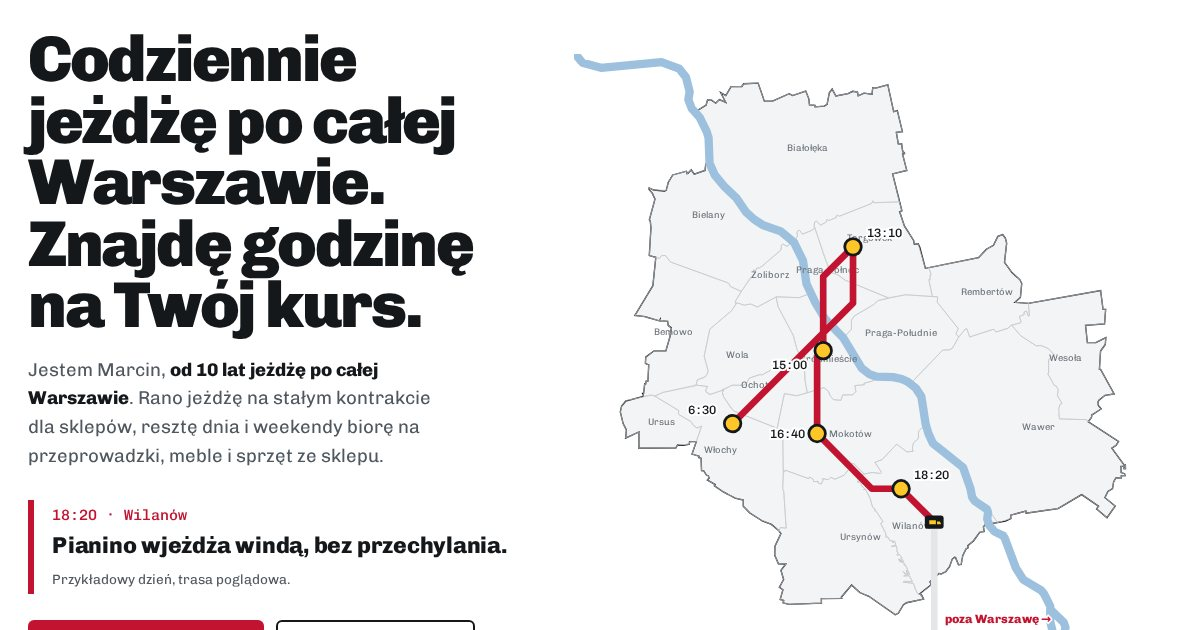
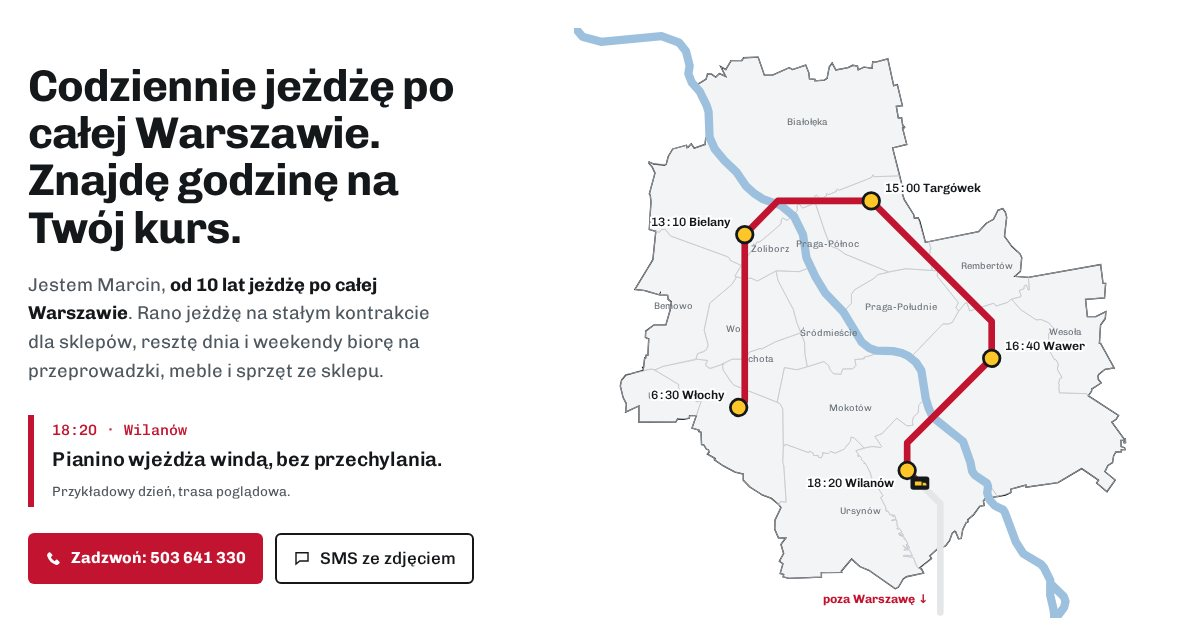
MJ Transport W3: lżejsza typografia (Chivo 600–700, mniejsze nagłówki), trasa bez nakładania: Włochy–Bielany–Targówek–Wawer–Wilanów
Claude-Session: https://claude.ai/code/session_01USdgDgttiw38zYBoXAXRj8

diff --git a/p/mj-transport-w3-trasa/index.html b/p/mj-transport-w3-trasa/index.html
@@ -13,7 +13,7 @@
 <script>document.documentElement.classList.add('js')</script>
 <link rel="preconnect" href="https://fonts.googleapis.com">
 <link rel="preconnect" href="https://fonts.gstatic.com" crossorigin>
-<link href="https://fonts.googleapis.com/css2?family=Chivo:ital,wght@0,400;0,500;0,800;0,900;1,400&family=Chivo+Mono:wght@400;500&display=swap" rel="stylesheet">
+<link href="https://fonts.googleapis.com/css2?family=Chivo:ital,wght@0,400;0,500;0,600;0,700;1,400&family=Chivo+Mono:wght@400;500&display=swap" rel="stylesheet">
 <style>
 :root{
   --red:#C21430; --red-d:#9E0F26; --yel:#FFC629; --gr:#1E2226; --gr2:#2A2F34; --line:#3A4046;
@@ -38,12 +38,12 @@ section[id]{scroll-margin-top:calc(var(--hdr-h) + 8px)}
 .hdr .wrap{display:flex;align-items:center;gap:26px;height:62px}
 .brand{display:flex;align-items:center;gap:10px;text-decoration:none;margin-right:auto;min-height:44px}
 .brand svg{width:40px;height:26px;flex:none}
-.brand b{font-weight:900;font-size:22px;letter-spacing:-.02em;line-height:1}
+.brand b{font-weight:700;font-size:21px;letter-spacing:-.01em;line-height:1}
 .brand small{display:block;font-size:12.5px;color:var(--mute);font-weight:400;letter-spacing:0;margin-top:2px}
 .nav{display:flex;gap:24px}
 .nav a{text-decoration:none;font-size:15.5px;color:var(--mute);padding:8px 0;font-weight:500}
 .nav a:hover{color:var(--red)}
-.call{display:inline-flex;align-items:center;gap:9px;background:var(--red);color:#fff;text-decoration:none;font-weight:800;padding:11px 17px;border-radius:6px;font-size:16px;white-space:nowrap}
+.call{display:inline-flex;align-items:center;gap:9px;background:var(--red);color:#fff;text-decoration:none;font-weight:700;padding:11px 17px;border-radius:6px;font-size:16px;white-space:nowrap}
 .call svg{width:17px;height:17px}
 .call:hover{background:var(--red-d)}
 .mnav{display:none;position:relative}
@@ -51,7 +51,7 @@ section[id]{scroll-margin-top:calc(var(--hdr-h) + 8px)}
 .mnav summary::-webkit-details-marker{display:none}
 .mnav nav{position:absolute;right:0;top:52px;background:#fff;border:2px solid var(--ink);min-width:230px;padding:8px 0;border-radius:6px}
 .mnav nav a{display:block;padding:12px 20px;text-decoration:none;font-size:16px}
-.mnav nav a.mcall{color:var(--red);font-weight:800}
+.mnav nav a.mcall{color:var(--red);font-weight:700}
 
 /* hero */
 .hero{background:var(--white);padding-top:var(--hdr-h)}
@@ -59,12 +59,12 @@ section[id]{scroll-margin-top:calc(var(--hdr-h) + 8px)}
 .pin{min-height:calc(100vh - var(--hdr-h));display:flex;align-items:center;padding:28px 0}
 .js .pin{position:sticky;top:var(--hdr-h);height:calc(100vh - var(--hdr-h))}
 .hero .wrap{display:grid;grid-template-columns:5fr 6fr;gap:48px;align-items:center;height:100%}
-.h1{font-weight:900;font-size:clamp(44px,5.4vw,82px);line-height:.95;letter-spacing:-.035em}
+.h1{font-weight:700;font-size:clamp(34px,3.7vw,56px);line-height:1.06;letter-spacing:-.022em;max-width:17ch}
 .lead{margin-top:20px;font-size:18.5px;color:var(--mute);max-width:38ch}
 .lead b{color:var(--ink)}
 .stop{margin-top:30px;border-left:6px solid var(--red);padding:4px 0 4px 18px;min-height:92px}
 .stop .t{font-family:var(--mono);font-size:15px;color:var(--red);font-weight:500}
-.stop .w{font-weight:800;font-size:23px;line-height:1.2;margin-top:4px;letter-spacing:-.01em}
+.stop .w{font-weight:600;font-size:20px;line-height:1.2;margin-top:4px;letter-spacing:-.01em}
 .stop small{display:block;color:var(--mute);font-size:13.5px;margin-top:10px}
 .ctas{display:flex;flex-wrap:wrap;gap:12px;margin-top:26px}
 .btn-k{display:inline-flex;align-items:center;gap:9px;border:2px solid var(--ink);text-decoration:none;padding:10px 16px;border-radius:6px;font-weight:500}
@@ -80,9 +80,10 @@ section[id]{scroll-margin-top:calc(var(--hdr-h) + 8px)}
 .map .route{fill:none;stroke:var(--red);stroke-width:12;stroke-linejoin:round;stroke-linecap:round}
 .map .st circle{fill:#fff;stroke:var(--ink);stroke-width:5}
 .map .st.on circle{fill:var(--yel)}
+.map .st .dz{font-family:var(--f);font-weight:600}
 .map .st text{font-family:var(--mono);font-size:22px;font-weight:500;fill:var(--ink);paint-order:stroke;stroke:#fff;stroke-width:7px}
 .map #van rect{fill:var(--ink)}
-.map .out{font-family:var(--f);font-weight:800;font-size:22px;fill:var(--red);paint-order:stroke;stroke:#fff;stroke-width:6px}
+.map .out{font-family:var(--f);font-weight:700;font-size:22px;fill:var(--red);paint-order:stroke;stroke:#fff;stroke-width:6px}
 
 /* sekcje */
 .sec{padding:110px 0}
@@ -90,7 +91,7 @@ section[id]{scroll-margin-top:calc(var(--hdr-h) + 8px)}
 .off{background:var(--off)}
 .redb{background:var(--red);color:#fff}
 #poza.sec{padding:80px 0}
-.h2{font-weight:900;font-size:clamp(36px,4.3vw,62px);line-height:.98;letter-spacing:-.03em;max-width:18ch}
+.h2{font-weight:700;font-size:clamp(30px,3.1vw,46px);line-height:1.08;letter-spacing:-.02em;max-width:20ch}
 .intro{font-size:18.5px;max-width:52ch;margin-top:18px}
 .dark .intro{color:var(--onmute)}
 
@@ -100,7 +101,7 @@ section[id]{scroll-margin-top:calc(var(--hdr-h) + 8px)}
 .tram::before{content:"";position:absolute;left:0;right:0;top:15px;height:8px;background:var(--red);border-radius:4px}
 .tram .s{position:relative;padding-top:52px}
 .tram .s::before{content:"";position:absolute;left:0;top:4px;width:30px;height:30px;border-radius:50%;background:#fff;border:6px solid var(--gr)}
-.tram h3{font-weight:800;font-size:25px;line-height:1.1;letter-spacing:-.015em}
+.tram h3{font-weight:700;font-size:21px;line-height:1.1;letter-spacing:-.015em}
 .tram p{color:var(--onmute);font-size:16px;margin-top:10px}
 .tram img{margin-top:18px;border-radius:6px;aspect-ratio:4/3;object-fit:cover;width:100%}
 .tram .s.end::before{background:var(--yel)}
@@ -113,19 +114,19 @@ section[id]{scroll-margin-top:calc(var(--hdr-h) + 8px)}
 .fleet .sm img{width:100%;height:100%;object-fit:cover;aspect-ratio:16/10}
 .flt{display:grid;grid-template-columns:repeat(3,1fr);gap:34px;margin-top:44px}
 .flt p{font-size:17px;color:var(--mute);border-top:4px solid var(--ink);padding-top:14px}
-.flt p b{display:block;font-weight:800;font-size:22px;color:var(--ink);letter-spacing:-.01em;margin-bottom:4px}
+.flt p b{display:block;font-weight:700;font-size:19px;color:var(--ink);letter-spacing:-.01em;margin-bottom:4px}
 
 /* poza */
 .away{display:grid;grid-template-columns:1fr auto;gap:56px;align-items:end}
 .away p{font-size:19px;color:#FFE3E7;margin-top:18px;max-width:46ch}
-.btn-w{display:inline-flex;align-items:center;gap:9px;background:#fff;color:var(--red-d);text-decoration:none;font-weight:800;padding:14px 20px;border-radius:6px;font-size:17px}
+.btn-w{display:inline-flex;align-items:center;gap:9px;background:#fff;color:var(--red-d);text-decoration:none;font-weight:700;padding:14px 20px;border-radius:6px;font-size:17px}
 .btn-w:hover{background:var(--yel);color:var(--ink)}
 .away svg.arr{width:100%;height:auto}
 
 /* o mnie */
 .me{display:grid;grid-template-columns:3fr 9fr;gap:56px;align-items:start}
 .me img{border-radius:50%;aspect-ratio:1;object-fit:cover;object-position:50% 18%;width:100%;max-width:260px}
-.me blockquote{font-weight:800;font-size:clamp(26px,2.8vw,40px);line-height:1.18;letter-spacing:-.02em;max-width:30ch}
+.me blockquote{font-weight:600;font-size:clamp(23px,2.3vw,32px);line-height:1.3;letter-spacing:-.02em;max-width:30ch}
 .me blockquote::before{content:"„"}.me blockquote::after{content:"”"}
 .me cite{display:block;font-style:normal;color:var(--mute);margin-top:16px;font-size:16px}
 .me .more{display:grid;grid-template-columns:1fr 1fr;gap:28px;margin-top:40px;max-width:820px}
@@ -134,12 +135,12 @@ section[id]{scroll-margin-top:calc(var(--hdr-h) + 8px)}
 
 /* kontakt */
 .contact{display:grid;grid-template-columns:6fr 6fr;gap:64px;align-items:start}
-.bigtel{display:inline-block;font-weight:900;font-size:clamp(40px,5.4vw,72px);letter-spacing:-.03em;line-height:1;text-decoration:none;margin-top:26px;color:#fff;font-variant-numeric:tabular-nums lining-nums}
+.bigtel{display:inline-block;font-weight:700;font-size:clamp(36px,4.2vw,56px);letter-spacing:-.02em;line-height:1;text-decoration:none;margin-top:26px;color:#fff;font-variant-numeric:tabular-nums lining-nums}
 .bigtel:hover{color:var(--yel)}
 .contact .alt{color:var(--onmute);margin-top:22px;font-size:17px}
 .contact .alt a{color:#fff}
 .btnrow{display:flex;flex-wrap:wrap;gap:12px;margin-top:26px}
-.btn-y{display:inline-flex;align-items:center;gap:9px;background:var(--yel);color:var(--ink);text-decoration:none;font-weight:800;padding:13px 18px;border-radius:6px}
+.btn-y{display:inline-flex;align-items:center;gap:9px;background:var(--yel);color:var(--ink);text-decoration:none;font-weight:700;padding:13px 18px;border-radius:6px}
 .btn-y svg{width:18px;height:18px}
 .btn-o{display:inline-flex;align-items:center;border:2px solid #6B737B;color:#fff;text-decoration:none;padding:11px 18px;border-radius:6px}
 form.f{display:grid;gap:14px;background:#fff;color:var(--ink);padding:30px;border-radius:8px}
@@ -148,13 +149,13 @@ form.f{display:grid;gap:14px;background:#fff;color:var(--ink);padding:30px;borde
 .f input:focus,.f textarea:focus{border-color:var(--ink)}
 .f textarea{min-height:110px;resize:vertical}
 .f .two{display:grid;grid-template-columns:1fr 1fr;gap:14px}
-.f button{font:inherit;font-weight:800;background:var(--red);color:#fff;border:0;padding:14px;border-radius:6px;cursor:pointer;font-size:16.5px}
+.f button{font:inherit;font-weight:700;background:var(--red);color:#fff;border:0;padding:14px;border-radius:6px;cursor:pointer;font-size:16.5px}
 .f button:hover{background:var(--red-d)}
 
 footer{background:var(--white);color:var(--mute);padding:40px 0 110px;font-size:15px;border-top:2px solid var(--ink)}
 footer a,.contact .alt a{display:inline-block;padding:10px 0}
 footer .wrap{display:flex;flex-wrap:wrap;gap:16px 40px;justify-content:space-between;align-items:center}
-footer b{color:var(--ink);font-weight:900}
+footer b{color:var(--ink);font-weight:700}
 .mbar{display:none}
 
 .js .reveal{opacity:0;transform:translateY(26px);transition:opacity .85s cubic-bezier(.22,.61,.36,1),transform .85s cubic-bezier(.22,.61,.36,1)}
@@ -166,7 +167,7 @@ footer b{color:var(--ink);font-weight:900}
   .nav{display:none}.mnav{display:block}
   .hero .wrap{grid-template-columns:1fr;grid-template-rows:auto minmax(0,1fr);gap:10px}
   .pin{align-items:stretch;padding:18px 0}
-  .h1{font-size:clamp(36px,7vw,56px)}
+  .h1{font-size:clamp(30px,5.6vw,44px)}
   .tram{grid-template-columns:1fr;gap:34px;margin-top:48px;padding-left:46px}
   .tram::before{left:11px;right:auto;top:0;bottom:0;width:8px;height:auto}
   .tram .s{padding-top:0}
@@ -183,11 +184,12 @@ footer b{color:var(--ink);font-weight:900}
   .hdr .wrap{height:58px;gap:10px}
   .brand small{display:none}
   .js .pin{min-height:0;height:calc(100svh - var(--hdr-h) - 68px);padding:14px 0}
-  .h1{font-size:34px}
+  .h1{font-size:28px}
   .hero .lead,.hero .ctas{display:none}
   .stop small{font-size:12px;margin-top:4px}
   .map .dn{display:none}
   .map .st text{font-size:36px;stroke-width:9px}
+  .map .st .dz{display:none}
   .stop{margin-top:14px;min-height:84px;padding-left:14px}
   .stop .w{font-size:19px}
   .map{max-height:none}
@@ -195,7 +197,7 @@ footer b{color:var(--ink);font-weight:900}
   .f .two{grid-template-columns:1fr}
   form.f{padding:20px}
   .mbar{display:grid;grid-template-columns:1fr 1fr;position:fixed;left:0;right:0;bottom:0;z-index:40;background:#fff;border-top:2px solid var(--ink);padding:10px 12px calc(10px + env(safe-area-inset-bottom));gap:10px}
-  .mbar a{display:flex;justify-content:center;align-items:center;gap:8px;min-height:46px;border-radius:6px;text-decoration:none;font-weight:800;font-size:16px}
+  .mbar a{display:flex;justify-content:center;align-items:center;gap:8px;min-height:46px;border-radius:6px;text-decoration:none;font-weight:700;font-size:16px}
   .mbar a:first-child{background:var(--red);color:#fff}
   .mbar a:last-child{border:2px solid var(--ink);color:var(--ink)}
   .mbar svg{width:18px;height:18px}
@@ -203,7 +205,7 @@ footer b{color:var(--ink);font-weight:900}
   .js .stagger>*{transform:translateY(16px);transition-duration:.7s;transition-delay:calc(var(--i,0)*55ms)}
 }
 @media(max-width:420px){.hdr .call{display:none}.mk{font-size:12.5px}}
-@media(max-width:380px){.h1{font-size:30px}}
+@media(max-width:380px){.h1{font-size:26px}}
 @media(prefers-reduced-motion:reduce){
   html{scroll-behavior:auto}
   .js .hero{height:auto}
@@ -242,7 +244,7 @@ footer b{color:var(--ink);font-weight:900}
         </div>
       </div>
       <div class="mapbox">
-        <svg class="map" id="map" viewBox="-10 -10 1020 1068" preserveAspectRatio="xMidYMid meet" role="img" aria-label="Mapa Warszawy z trasą busa przez Włochy, Targówek, Śródmieście, Mokotów i Wilanów">
+        <svg class="map" id="map" viewBox="-10 -10 1020 1068" preserveAspectRatio="xMidYMid meet" role="img" aria-label="Mapa Warszawy z trasą busa przez Włochy, Bielany, Targówek, Wawer i Wilanów">
           <path class="city" d="M42.7 637.9L48.0 659.4L53.8 670.4L52.3 685.3L76.4 674.2L76.5 703.7L143.1 703.5L146.5 697.8L156.6 698.4L167.8 696.4L168.1 691.7L180.3 691.7L172.5 714.1L185.2 718.1L184.6 720.4L188.9 721.6L189.8 744.3L193.7 744.7L198.6 752.2L202.2 753.7L203.5 757.5L200.3 761.4L214.5 769.4L213.0 771.7L230.0 783.2L250.6 793.8L265.3 797.5L265.3 808.7L277.3 820.8L299.8 835.3L316.3 841.5L330.0 853.2L333.5 858.2L322.7 881.0L322.3 897.6L329.0 912.7L342.2 913.2L333.5 924.6L338.4 941.3L330.6 955.4L337.1 959.7L332.2 977.3L338.5 979.0L337.4 983.4L347.8 986.3L406.8 984.1L406.7 975.8L443.5 975.3L442.8 973.3L461.4 951.2L476.1 964.8L492.6 971.7L540.5 1005.0L546.3 1002.0L555.0 987.3L560.9 983.3L591.8 976.8L588.1 969.5L584.3 967.6L606.1 950.5L603.2 945.4L619.5 930.2L623.4 931.3L631.8 927.2L638.7 918.0L643.5 904.8L647.8 901.1L649.6 901.7L654.9 914.5L659.8 913.9L662.6 898.1L668.5 885.8L672.4 883.5L671.6 880.0L682.3 871.1L693.3 855.9L701.5 854.5L700.0 846.0L703.4 842.1L739.8 835.6L749.7 831.0L749.5 824.8L776.9 817.5L777.3 821.2L835.0 812.8L877.9 787.6L908.4 808.5L904.9 813.5L923.7 829.4L938.6 808.3L920.0 793.1L925.4 781.7L933.8 776.5L935.7 764.6L939.8 757.5L949.7 757.2L949.6 753.8L956.5 753.3L955.5 749.7L949.4 747.7L949.0 736.3L953.8 736.2L954.7 740.9L957.3 740.5L957.0 733.9L954.9 734.1L932.5 703.4L940.3 698.4L944.7 691.2L889.9 656.0L895.9 647.1L895.9 643.7L913.2 632.5L908.1 626.3L907.3 620.1L909.2 616.6L920.2 607.8L936.7 605.5L912.2 561.0L910.0 561.0L912.1 527.7L920.7 515.8L921.6 503.5L903.5 512.4L888.2 512.3L884.9 481.0L919.3 478.4L921.3 452.1L916.5 451.7L912.2 418.2L781.4 441.4L757.1 439.5L767.0 430.7L769.4 405.5L766.2 398.8L751.7 385.6L738.2 367.3L742.1 332.5L739.9 323.6L735.0 317.0L726.2 320.1L718.2 336.3L705.4 343.4L691.1 358.8L595.0 377.9L584.7 339.5L581.8 333.5L575.0 334.3L573.7 327.5L557.0 301.3L548.3 275.2L552.5 273.8L535.7 207.1L561.3 200.7L553.7 171.5L557.4 170.4L556.9 168.4L555.1 168.8L553.6 164.2L551.9 152.2L545.9 152.4L542.4 131.8L553.4 130.4L544.2 92.6L537.6 94.3L527.0 45.8L505.0 51.9L499.7 51.0L498.3 62.7L483.8 60.8L473.4 65.7L472.1 58.8L463.3 57.5L455.1 61.7L433.0 66.0L426.2 53.5L421.1 60.2L417.0 81.0L411.9 84.2L395.3 85.7L395.1 82.9L385.2 82.3L384.0 71.2L378.4 57.1L354.5 65.2L348.5 61.9L318.4 75.4L303.5 75.4L292.2 42.7L266.3 43.8L262.6 48.8L243.2 49.1L233.7 65.4L224.6 60.2L233.5 77.6L222.1 72.6L215.5 79.1L208.0 73.6L200.6 73.2L198.1 82.3L175.2 96.8L196.1 124.1L201.4 134.2L204.3 150.6L202.8 180.6L197.3 190.1L196.1 200.8L176.6 207.6L171.1 199.6L165.0 206.2L163.5 206.6L162.5 202.2L137.6 209.0L129.5 222.6L125.8 236.8L122.8 238.2L103.2 236.2L95.0 232.5L94.5 235.1L100.8 242.4L105.5 252.7L95.3 290.1L97.0 292.7L98.2 304.7L95.2 354.8L107.0 357.9L101.7 409.4L69.1 463.3L87.5 465.5L113.2 472.9L115.1 469.8L115.4 473.3L128.4 474.1L129.4 481.2L135.0 485.8L133.1 500.0L125.2 527.4L103.9 527.3L88.7 538.7L88.2 550.0L94.2 553.0L92.7 582.0L89.4 582.0L88.7 587.1L86.9 587.0L84.9 604.4L83.0 604.3L84.6 609.8L52.5 618.5L45.1 627.4L42.7 637.9Z"/>
 <path class="dist" d="M69.1 463.3L87.5 465.5L113.2 472.9L115.1 469.8L115.4 473.3L128.4 474.1L129.4 481.2L135.0 485.8L133.1 500.0L125.2 527.4L103.9 527.3L88.6 539.2L88.2 550.0L94.2 553.0L92.7 582.0L89.4 582.0L88.7 587.1L86.9 587.0L84.9 604.4L83.1 606.2L84.6 609.8L97.6 607.2L105.2 609.1L119.9 602.6L179.1 590.8L182.4 579.6L198.3 573.0L201.6 563.4L194.5 536.7L204.8 488.0L244.3 454.6L252.4 442.3L250.5 438.5L261.3 419.7L241.7 410.7L239.7 405.9L234.6 403.2L133.7 366.6L124.4 354.8L117.2 355.0L114.1 359.8L107.0 358.3L101.7 409.4L69.1 463.3Z"/>
 <path class="dist" d="M175.2 96.8L196.1 124.1L201.4 134.2L204.3 150.6L203.0 190.5L206.0 203.2L215.7 220.5L229.5 232.9L251.6 247.4L260.6 257.6L271.8 278.6L283.4 289.6L300.8 299.7L335.0 311.5L356.8 329.0L363.5 319.7L362.5 313.3L363.7 310.2L367.4 309.2L372.6 316.1L387.3 310.4L393.5 306.1L394.5 294.3L397.9 292.7L405.3 299.9L416.4 293.6L415.7 290.4L417.5 289.5L419.1 291.7L425.0 289.6L434.0 285.8L433.5 283.1L436.4 281.8L438.8 283.8L497.7 260.6L500.1 255.7L501.9 259.2L548.0 257.7L535.7 207.1L561.3 200.7L553.7 171.5L557.4 170.4L556.9 168.4L555.1 168.8L553.6 164.2L551.9 152.2L545.9 152.4L542.4 131.8L553.4 130.4L544.2 92.6L537.6 94.3L527.0 45.8L505.0 51.9L499.7 51.0L498.3 62.7L483.8 60.8L473.4 65.7L472.1 58.8L463.3 57.5L455.1 61.7L433.0 66.0L426.2 53.5L421.1 60.2L417.0 81.0L411.9 84.2L395.3 85.7L395.1 82.9L385.2 82.3L384.0 71.2L378.4 57.1L354.5 65.2L348.5 61.9L318.4 75.4L303.5 75.4L292.2 42.7L266.3 43.8L262.6 48.8L243.2 49.1L233.7 65.4L224.6 60.2L233.5 77.6L222.1 72.6L215.5 79.1L208.0 73.6L200.6 73.2L198.1 82.3L175.2 96.8Z"/>
@@ -265,26 +267,21 @@ footer b{color:var(--ink);font-weight:900}
 <path class="river" d="M845.4 1197.0L840.5 1184.0L807.8 1144.5L802.8 1124.7L803.2 1116.7L806.8 1106.4L822.3 1078.2L827.1 1064.5L828.4 1054.4L827.1 1043.4L820.9 1016.5L821.1 989.8L809.8 967.4L804.6 960.9L772.4 941.7L758.8 920.5L739.0 867.2L735.8 862.2L720.4 854.6L710.8 843.4L706.9 831.6L708.5 819.9L706.3 814.1L684.6 799.4L679.5 792.0L676.5 776.3L663.1 738.3L608.5 694.7L600.3 676.4L595.5 660.2L587.7 610.2L577.6 594.8L563.1 583.2L552.0 578.2L536.6 574.9L506.5 574.2L493.3 569.4L479.9 559.0L446.4 503.9L413.8 469.8L396.5 441.5L379.7 405.8L373.4 364.1L357.2 331.1L333.3 311.0L301.2 299.9L285.2 289.6L270.4 276.2L253.3 251.3L232.0 230.9L213.7 209.1L204.3 187.8L202.5 141.5L198.9 130.0L186.2 104.4L172.1 88.5L165.9 72.9L168.3 58.3L161.5 31.8L149.2 16.6L117.2 4.8L7.8 15.1L-25.8 5.8L-49.6 -23.3L-53.9 -42.5L-64.5 -49.8M827.1 1064.5L846.1 1038.5L848.6 1028.0L845.4 1019.0L821.7 995.7"/>
 <text class="dn" x="139" y="499">Bemowo</text>
 <text class="dn" x="382" y="166">Białołęka</text>
-<text class="dn" x="202" y="286">Bielany</text>
 <text class="dn" x="459" y="684">Mokotów</text>
 <text class="dn" x="292" y="594">Ochota</text>
 <text class="dn" x="550" y="501">Praga-Południe</text>
 <text class="dn" x="418" y="386">Praga-Północ</text>
 <text class="dn" x="706" y="426">Rembertów</text>
-<text class="dn" x="494" y="328">Targówek</text>
 <text class="dn" x="117" y="662">Ursus</text>
 <text class="dn" x="477" y="869">Ursynów</text>
-<text class="dn" x="799" y="671">Wawer</text>
 <text class="dn" x="849" y="546">Wesoła</text>
-<text class="dn" x="570" y="849">Wilanów</text>
 <text class="dn" x="254" y="540">Wola</text>
-<text class="dn" x="225" y="712">Włochy</text>
 <text class="dn" x="420" y="548">Śródmieście</text>
 <text class="dn" x="313" y="395">Żoliborz</text>
-          <path class="route-bg" d="M246 659 L464 441 L464 339 L410 393 L410 527 L399 538 L399 677 L498 777 L551 777 L611 837 L611 1048"/>
-          <path class="route" id="route" d="M246 659 L464 441 L464 339 L410 393 L410 527 L399 538 L399 677 L498 777 L551 777 L611 837 L611 1048"/>
-          <g class="st"><circle cx="246" cy="659" r="15"/><text x="166" y="641">6:30</text></g><g class="st"><circle cx="464" cy="339" r="15"/><text x="490" y="321">13:10</text></g><g class="st"><circle cx="410" cy="527" r="15"/><text x="318" y="561">15:00</text></g><g class="st"><circle cx="399" cy="677" r="15"/><text x="313" y="685">16:40</text></g><g class="st"><circle cx="551" cy="777" r="15"/><text x="575" y="759">18:20</text></g>
-          <text class="out" x="630" y="1020">poza Warszawę →</text>
+          <path class="route-bg" d="M257 677 L268 666 L268 364 L328 303 L497 303 L715 521 L715 588 L562 741 L562 791 L622 851 L622 1048"/>
+          <path class="route" id="route" d="M257 677 L268 666 L268 364 L328 303 L497 303 L715 521 L715 588 L562 741 L562 791 L622 851 L622 1048"/>
+          <g class="st"><circle cx="257" cy="677" r="15"/><text x="233" y="661" text-anchor="end"><tspan class="tt">6:30</tspan><tspan class="dz"> Włochy</tspan></text></g><g class="st"><circle cx="268" cy="364" r="15"/><text x="244" y="348" text-anchor="end"><tspan class="tt">13:10</tspan><tspan class="dz"> Bielany</tspan></text></g><g class="st"><circle cx="497" cy="303" r="15"/><text x="521" y="287" text-anchor="start"><tspan class="tt">15:00</tspan><tspan class="dz"> Targówek</tspan></text></g><g class="st"><circle cx="715" cy="588" r="15"/><text x="739" y="572" text-anchor="start"><tspan class="tt">16:40</tspan><tspan class="dz"> Wawer</tspan></text></g><g class="st"><circle cx="562" cy="791" r="15"/><text x="538" y="821" text-anchor="end"><tspan class="tt">18:20</tspan><tspan class="dz"> Wilanów</tspan></text></g>
+          <text class="out" x="600" y="1030" text-anchor="end">poza Warszawę ↓</text>
           <g id="van"><rect x="-17" y="-12" width="34" height="24" rx="5"/><path d="M-9 -3h12v7h-12zM5 -1h5l2 3v2h-7z" fill="#FFC629"/></g>
         </svg>
       </div>
@@ -388,9 +385,9 @@ setTimeout(()=>{if(!fired)els.forEach(e=>e.classList.add('in'))},4000);
 /* hero: trasa */
 const route=document.getElementById('route'), van=document.getElementById('van'), L=route.getTotalLength();
 const stops=[...document.querySelectorAll('.map .st')], tT=document.getElementById('st-t'), tW=document.getElementById('st-w');
-const TXT=[["6:30 · Włochy", "Start dnia: stały kontrakt, dostawy do sklepów."], ["13:10 · Targówek", "Pralka i lodówka spod marketu, wniesione do mieszkania."], ["15:00 · Śródmieście", "Przeprowadzka kawalerki: szafa w kocach, kartony na pasach."], ["16:40 · Mokotów", "Rozładunek i wniesienie na trzecie piętro."], ["18:20 · Wilanów", "Pianino wjeżdża windą, bez przechylania."], ["Sobota · poza Warszawę", "Trasę i termin ustalamy przez telefon."]];
+const TXT=[["6:30 · Włochy", "Start dnia: stały kontrakt, dostawy do sklepów."], ["13:10 · Bielany", "Pralka i lodówka spod marketu, wniesione do mieszkania."], ["15:00 · Targówek", "Przeprowadzka kawalerki: szafa w kocach, kartony na pasach."], ["16:40 · Wawer", "Rozładunek i wniesienie na trzecie piętro."], ["18:20 · Wilanów", "Pianino wjeżdża windą, bez przechylania."], ["Sobota · poza Warszawę", "Trasę i termin ustalamy przez telefon."]];
 // długości trasy do każdego przystanku (znane punkty)
-const SL=[0.0, 0.3244, 0.4907, 0.6129, 0.7661].map(v=>v*L);
+const SL=[0.0, 0.2123, 0.3825, 0.6335, 0.8116].map(v=>v*L);
 route.style.strokeDasharray=L;
 const cl=v=>Math.max(0,Math.min(1,v));
 let last=-1;
